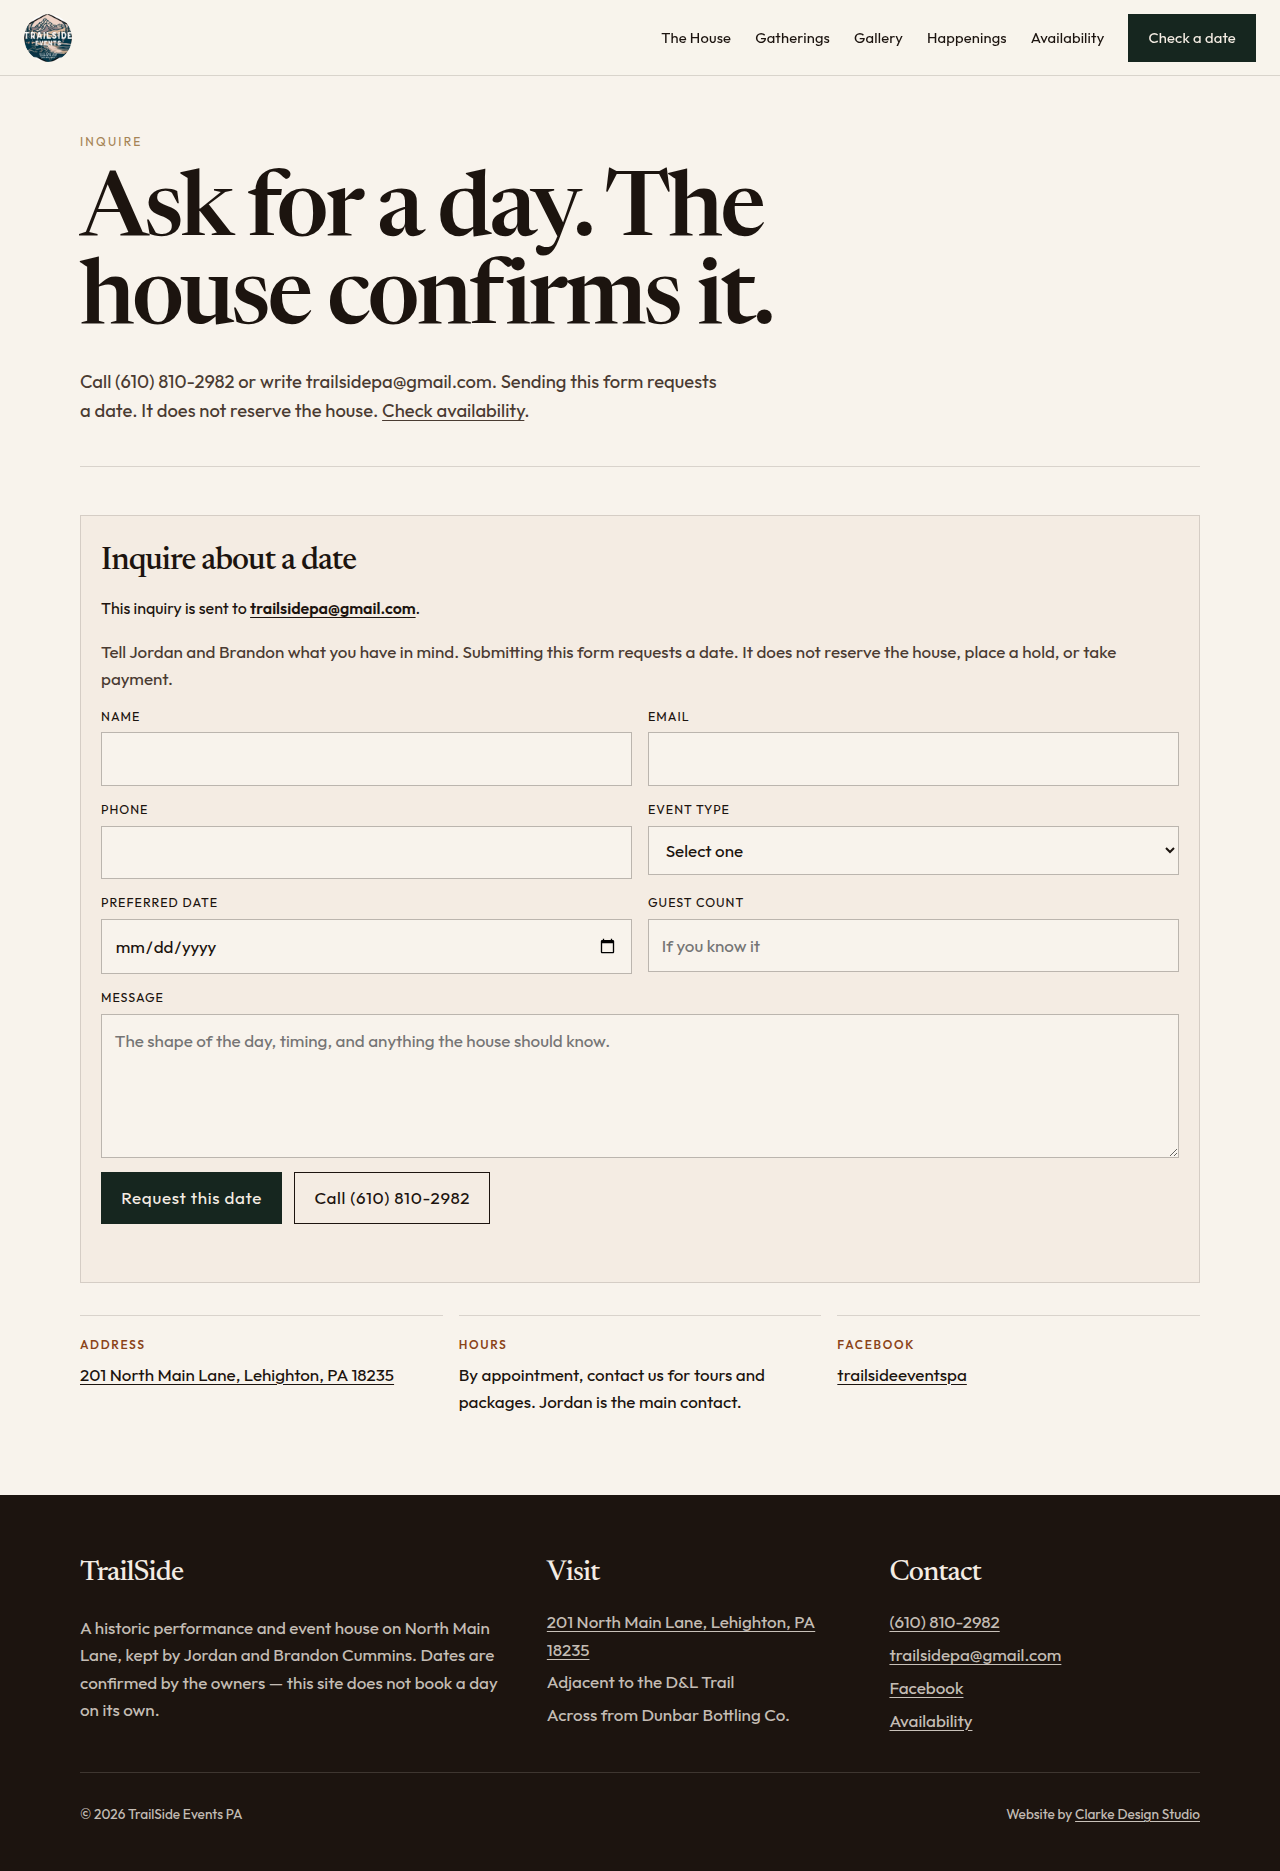
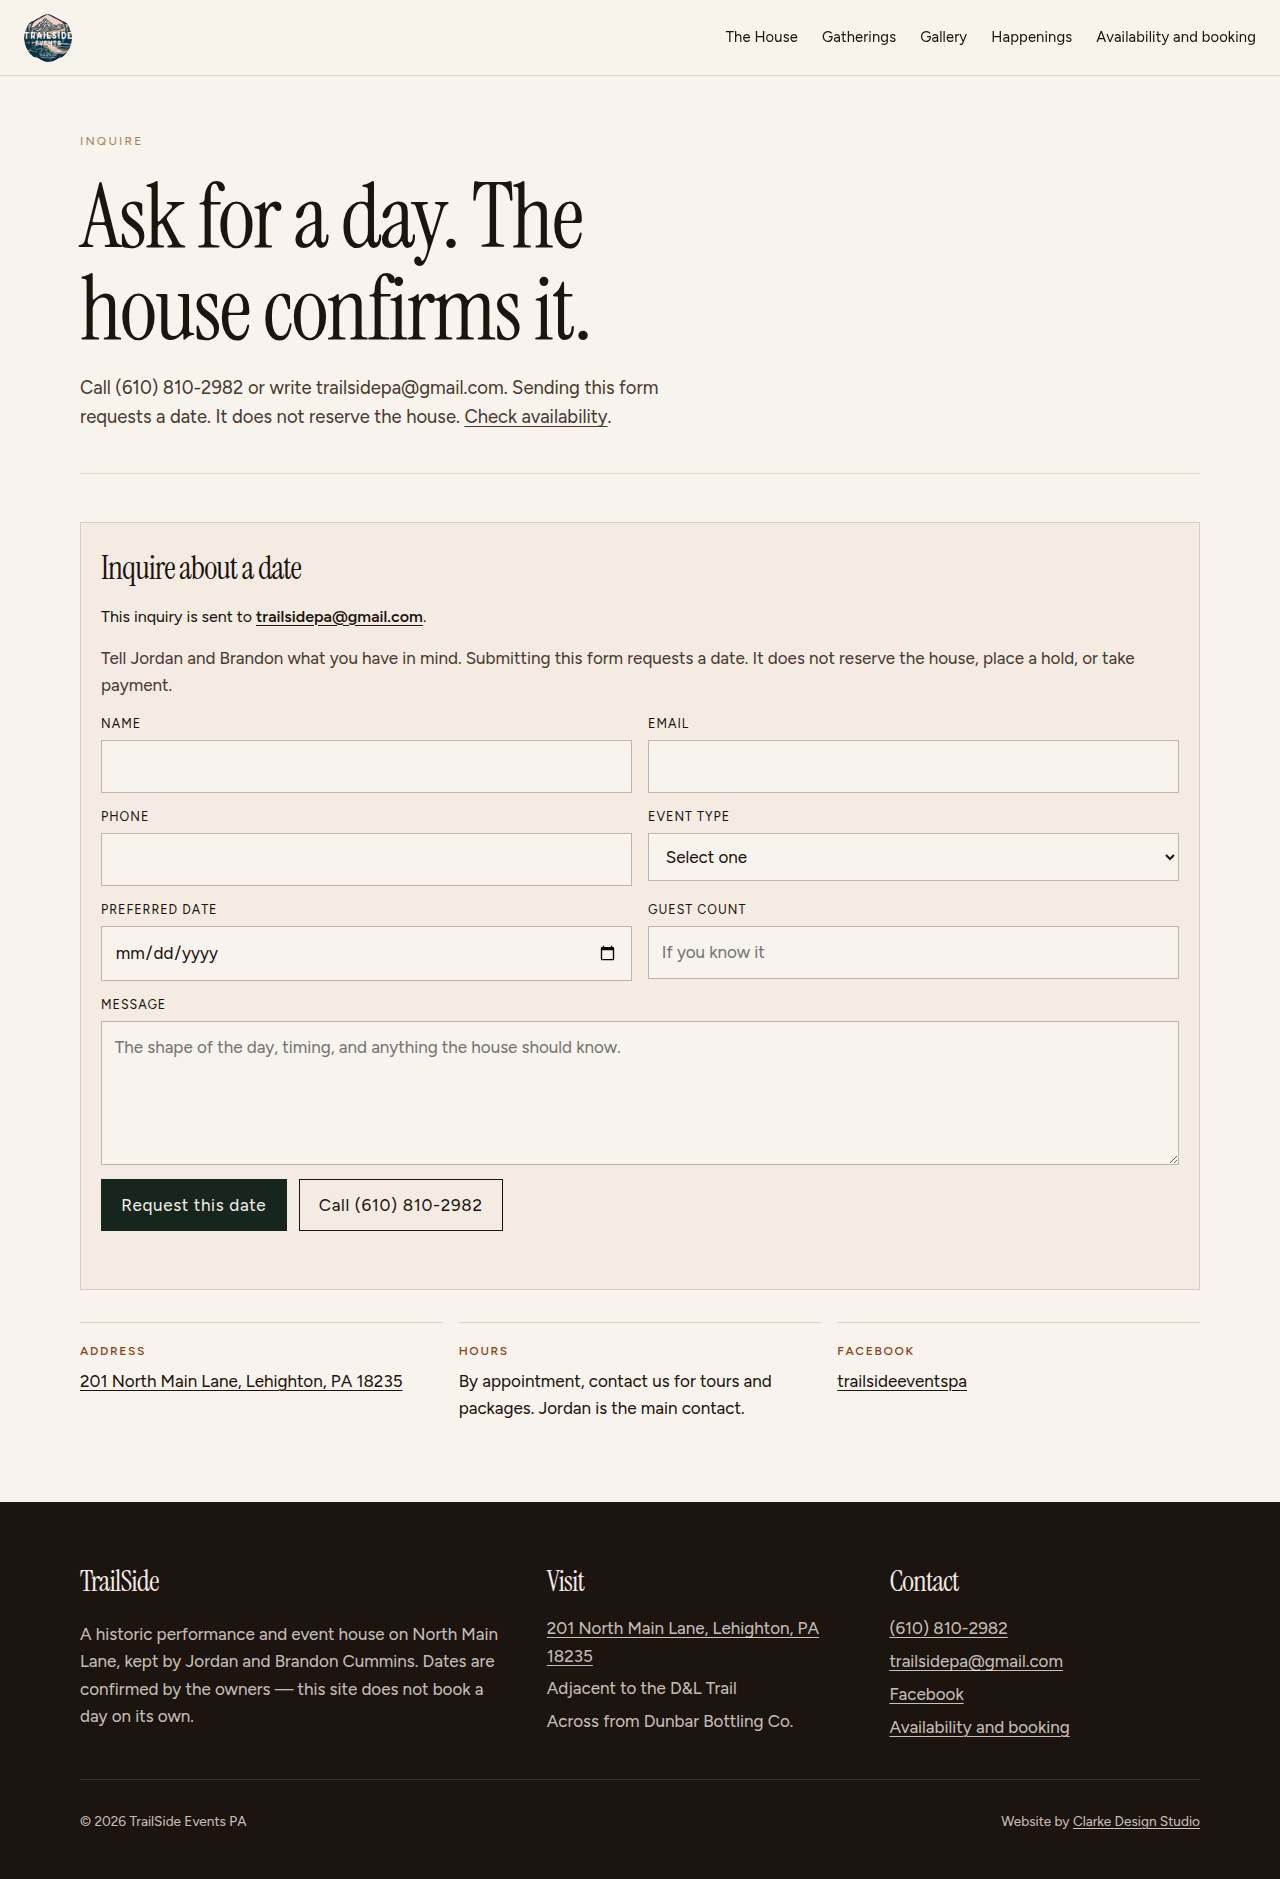
Use Instrument Serif and Figtree, and uncover the hero.
The title sits in the lower left at a smaller size. Type on the photograph gets a thin black stroke instead of a heavy scrim.

diff --git a/src/styles/global.css b/src/styles/global.css
@@ -16,8 +16,8 @@
   --open: #1f6a45;
   --booked: #7a382c;
   --hold: #8d5a16;
-  --serif: "Newsreader Variable", serif;
-  --sans: "Outfit Variable", sans-serif;
+  --serif: "Instrument Serif", serif;
+  --sans: "Figtree Variable", sans-serif;
   --header-h: 4.75rem;
   --wrap: 1120px;
   --gutter: 1.5rem;
@@ -240,11 +240,29 @@ textarea {
   justify-content: flex-end;
   min-height: 100vh;
   min-height: 100dvh;
-  padding: calc(var(--header-h) + 2rem) 6vw 4.5rem;
+  width: min(34rem, calc(100% - 8vw));
+  padding: calc(var(--header-h) + 1.5rem) 0 3.25rem 6vw;
   position: relative;
   z-index: 1;
-  background: linear-gradient(90deg, rgba(16, 12, 10, 0.82) 0%, rgba(16, 12, 10, 0.55) 42%, rgba(16, 12, 10, 0.12) 72%, rgba(16, 12, 10, 0.28) 100%);
-  max-width: none;
+  background: linear-gradient(180deg, rgba(16, 12, 10, 0) 46%, rgba(16, 12, 10, 0.28) 100%);
+}
+
+.on-photo {
+  -webkit-text-stroke: 0.6px #000;
+  paint-order: stroke fill;
+  text-shadow: 0 0 1px #000;
+}
+
+.hero .eyebrow,
+.hero h1,
+.hero .deck,
+.hero-meta,
+.hero .btn-ghost,
+.site-header[data-overlay="true"]:not(.is-solid) .nav-desktop a,
+.site-header[data-overlay="true"]:not(.is-solid) .nav-toggle {
+  -webkit-text-stroke: 0.6px #000;
+  paint-order: stroke fill;
+  text-shadow: 0 0 1px #000;
 }
 
 .eyebrow {
@@ -258,21 +276,19 @@ textarea {
 .hero h1 {
   margin: 0;
   font-family: var(--serif);
-  font-weight: 560;
-  font-size: clamp(4.6rem, 11vw, 8.5rem);
-  line-height: 0.84;
-  letter-spacing: -0.045em;
-  font-variation-settings: "opsz" 72, "wght" 560;
+  font-weight: 400;
+  font-size: clamp(2.7rem, 4.6vw, 4.1rem);
+  line-height: 0.96;
+  letter-spacing: -0.02em;
 }
 
 .hero h1 em {
   display: block;
   font-style: italic;
-  font-weight: 450;
+  font-weight: 400;
   font-size: 0.62em;
   letter-spacing: -0.03em;
   color: #f0d7b4;
-  font-variation-settings: "opsz" 72, "wght" 480;
 }
 
 .deck {
@@ -367,10 +383,9 @@ main {
 .section-title,
 .block-title {
   font-family: var(--serif);
-  font-weight: 550;
-  letter-spacing: -0.035em;
-  line-height: 0.98;
-  font-variation-settings: "opsz" 72, "wght" 550;
+  font-weight: 400;
+  letter-spacing: -0.02em;
+  line-height: 1.02;
   margin: 0;
 }
 
@@ -382,8 +397,7 @@ main {
 .mast h1 em,
 .section-title em {
   font-style: italic;
-  font-weight: 460;
-  font-variation-settings: "opsz" 72, "wght" 480;
+  font-weight: 400;
 }
 
 .lede {
@@ -466,9 +480,8 @@ main {
   margin: 0 0 0.3rem;
   font-family: var(--serif);
   font-size: 1.45rem;
-  font-weight: 520;
+  font-weight: 400;
   letter-spacing: -0.02em;
-  font-variation-settings: "opsz" 36, "wght" 520;
 }
 
 .chapter-list p {
@@ -496,10 +509,9 @@ main {
   margin: 0;
   font-family: var(--serif);
   font-size: 1.7rem;
-  font-weight: 520;
-  letter-spacing: -0.03em;
+  font-weight: 400;
+  letter-spacing: -0.02em;
   line-height: 1.05;
-  font-variation-settings: "opsz" 48, "wght" 520;
 }
 
 .card p {
@@ -521,11 +533,10 @@ main {
   margin: 0;
   font-family: var(--serif);
   font-size: clamp(1.6rem, 3vw, 2.35rem);
-  font-weight: 480;
+  font-weight: 400;
   font-style: italic;
   line-height: 1.25;
-  letter-spacing: -0.03em;
-  font-variation-settings: "opsz" 48, "wght" 480;
+  letter-spacing: -0.02em;
 }
 
 .quote footer {
@@ -556,9 +567,9 @@ main {
   font-family: var(--serif);
   font-size: clamp(4rem, 8vw, 6.5rem);
   line-height: 0.85;
-  letter-spacing: -0.04em;
+  letter-spacing: -0.03em;
   margin: 0;
-  font-variation-settings: "opsz" 72, "wght" 520;
+  font-weight: 400;
 }
 
 .stat small {
@@ -758,7 +769,7 @@ main {
   margin: 0 0 0.35rem;
   font-family: var(--serif);
   font-size: 1.6rem;
-  font-weight: 520;
+  font-weight: 400;
   letter-spacing: -0.03em;
 }
 
@@ -810,7 +821,7 @@ main {
   font-family: var(--serif);
   font-size: clamp(2rem, 4vw, 3rem);
   letter-spacing: -0.03em;
-  font-weight: 520;
+  font-weight: 400;
 }
 
 .calendar-layout {
@@ -850,7 +861,7 @@ main {
   margin: 0;
   font-family: var(--serif);
   font-size: clamp(1.8rem, 3vw, 2.4rem);
-  font-weight: 520;
+  font-weight: 400;
   letter-spacing: -0.03em;
 }
 
@@ -1006,7 +1017,7 @@ a.day:hover {
   font-size: 2rem;
   margin: 0 0 0.6rem;
   letter-spacing: -0.03em;
-  font-weight: 520;
+  font-weight: 400;
 }
 
 .calendar-aside p,
@@ -1067,7 +1078,7 @@ a.day:hover {
   font-size: 1.15rem;
   line-height: 1.4;
   letter-spacing: -0.02em;
-  font-variation-settings: "opsz" 24, "wght" 460;
+  font-weight: 400;
 }
 
 .review footer {
@@ -1187,7 +1198,7 @@ a.day:hover {
   margin: 0 0 0.7rem;
   font-family: var(--serif);
   font-size: 1.8rem;
-  font-weight: 500;
+  font-weight: 400;
   letter-spacing: -0.03em;
 }
 
@@ -1277,8 +1288,11 @@ a.day:hover {
   }
 
   .hero-copy {
+    width: 100%;
+    padding-right: var(--gutter);
+    padding-left: var(--gutter);
     padding-bottom: 2.5rem;
-    background: linear-gradient(180deg, rgba(16, 12, 10, 0.2) 0%, rgba(16, 12, 10, 0.28) 38%, rgba(16, 12, 10, 0.82) 100%);
+    background: linear-gradient(180deg, rgba(16, 12, 10, 0) 52%, rgba(16, 12, 10, 0.42) 100%);
   }
 }
 
@@ -1380,7 +1394,7 @@ a.day:hover {
   }
 
   .hero h1 {
-    font-size: clamp(3.8rem, 18vw, 5.2rem);
+    font-size: clamp(2.5rem, 11vw, 3.3rem);
   }
 
   .footer-base {

diff --git a/docs/typography.md b/docs/typography.md
@@ -1,25 +1,29 @@
 # Typography
 
-TrailSide’s type should feel like a kept historic building: timber, brick, and a set table. The headlines are a book serif. The interface is a plain geometric sans.
+The photograph leads. Type sits back: a sharp serif for titles, and a plain sans for everything a guest reads or fills in.
 
-## Display: Newsreader
+## Display: Instrument Serif
 
-Newsreader is a variable old-style serif (Production Type) with an optical-size axis. At display sizes the contrast is high and the italic is quiet, closer to an invitation than a novelty wordmark. It carries the wordmark, page titles, quotes, and the calendar month.
+Instrument Serif is a single-weight old-style (Rodrigo Fuenzalida, Google Fonts). It is used for the wordmark, page titles, quotes, and the calendar month. The italic is the second line of a headline. There is no softness or wonk axis.
 
-Loaded locally via `@fontsource-variable/newsreader` (`opsz` and `opsz-italic`). Optical size stays inside Newsreader’s 6–72 range. The softness and wonk axes from the previous display face are not used.
+Loaded locally via `@fontsource/instrument-serif` at weight 400, roman and italic.
 
-## Text and UI: Outfit
+## Text and UI: Figtree
 
-Outfit is a geometric sans with an even rhythm. It is the same UI face used on Milk Street Distillery. It carries navigation, forms, captions, and body copy, and it stays clear at small sizes.
+Figtree is the sans used by Clarke Design Studio. It carries navigation, forms, captions, and body copy.
 
-Loaded locally via `@fontsource-variable/outfit`.
+Loaded locally via `@fontsource-variable/figtree`.
 
 ## What was rejected
 
-Fraunces with softness and wonk made the headlines look bubbly. Schibsted Grotesk fought that display face instead of settling next to the photographs. Inter, Jost, Syne, and `system-ui` stay out. System fonts appear only as the CSS generic families `serif` and `sans-serif` behind the real faces, so a failed font file still leaves readable type.
+Fraunces with softness and wonk looked bubbly. Newsreader still felt like a book face sitting on the room. Schibsted Grotesk and Outfit were the previous UI faces. Inter, Jost, Syne, and `system-ui` stay out. System fonts appear only as the CSS generic families `serif` and `sans-serif` behind the real faces.
+
+## Text on photographs
+
+Any type that sits on a photograph gets a 0.6px black stroke so it stays readable without a heavy scrim. That includes the hero headline, deck, and the header while it is still transparent over the room. Type on the cream pages does not get the stroke.
 
 ## Use
 
-- Newsreader for the wordmark, page titles, quotes, and calendar month.
-- Outfit for everything a guest scans or fills in.
-- Uppercase tracking is reserved for eyebrows, captions, and the photograph label. It is not used for long text.
+- Instrument Serif for the wordmark, page titles, quotes, and calendar month.
+- Figtree for everything a guest scans or fills in.
+- The hero title stays in the lower left, small enough that the room remains the picture.

diff --git a/README.md b/README.md
@@ -49,7 +49,7 @@ A later admin calendar can sit on a Cloudflare Worker, D1, or KV without changin
 
 ## Typography
 
-Display type is Newsreader. Interface and body type is Outfit. The pairing is explained in [docs/typography.md](docs/typography.md).
+Display type is Instrument Serif. Interface and body type is Figtree. The pairing is explained in [docs/typography.md](docs/typography.md).
 
 ## What is real, and what is not
 
